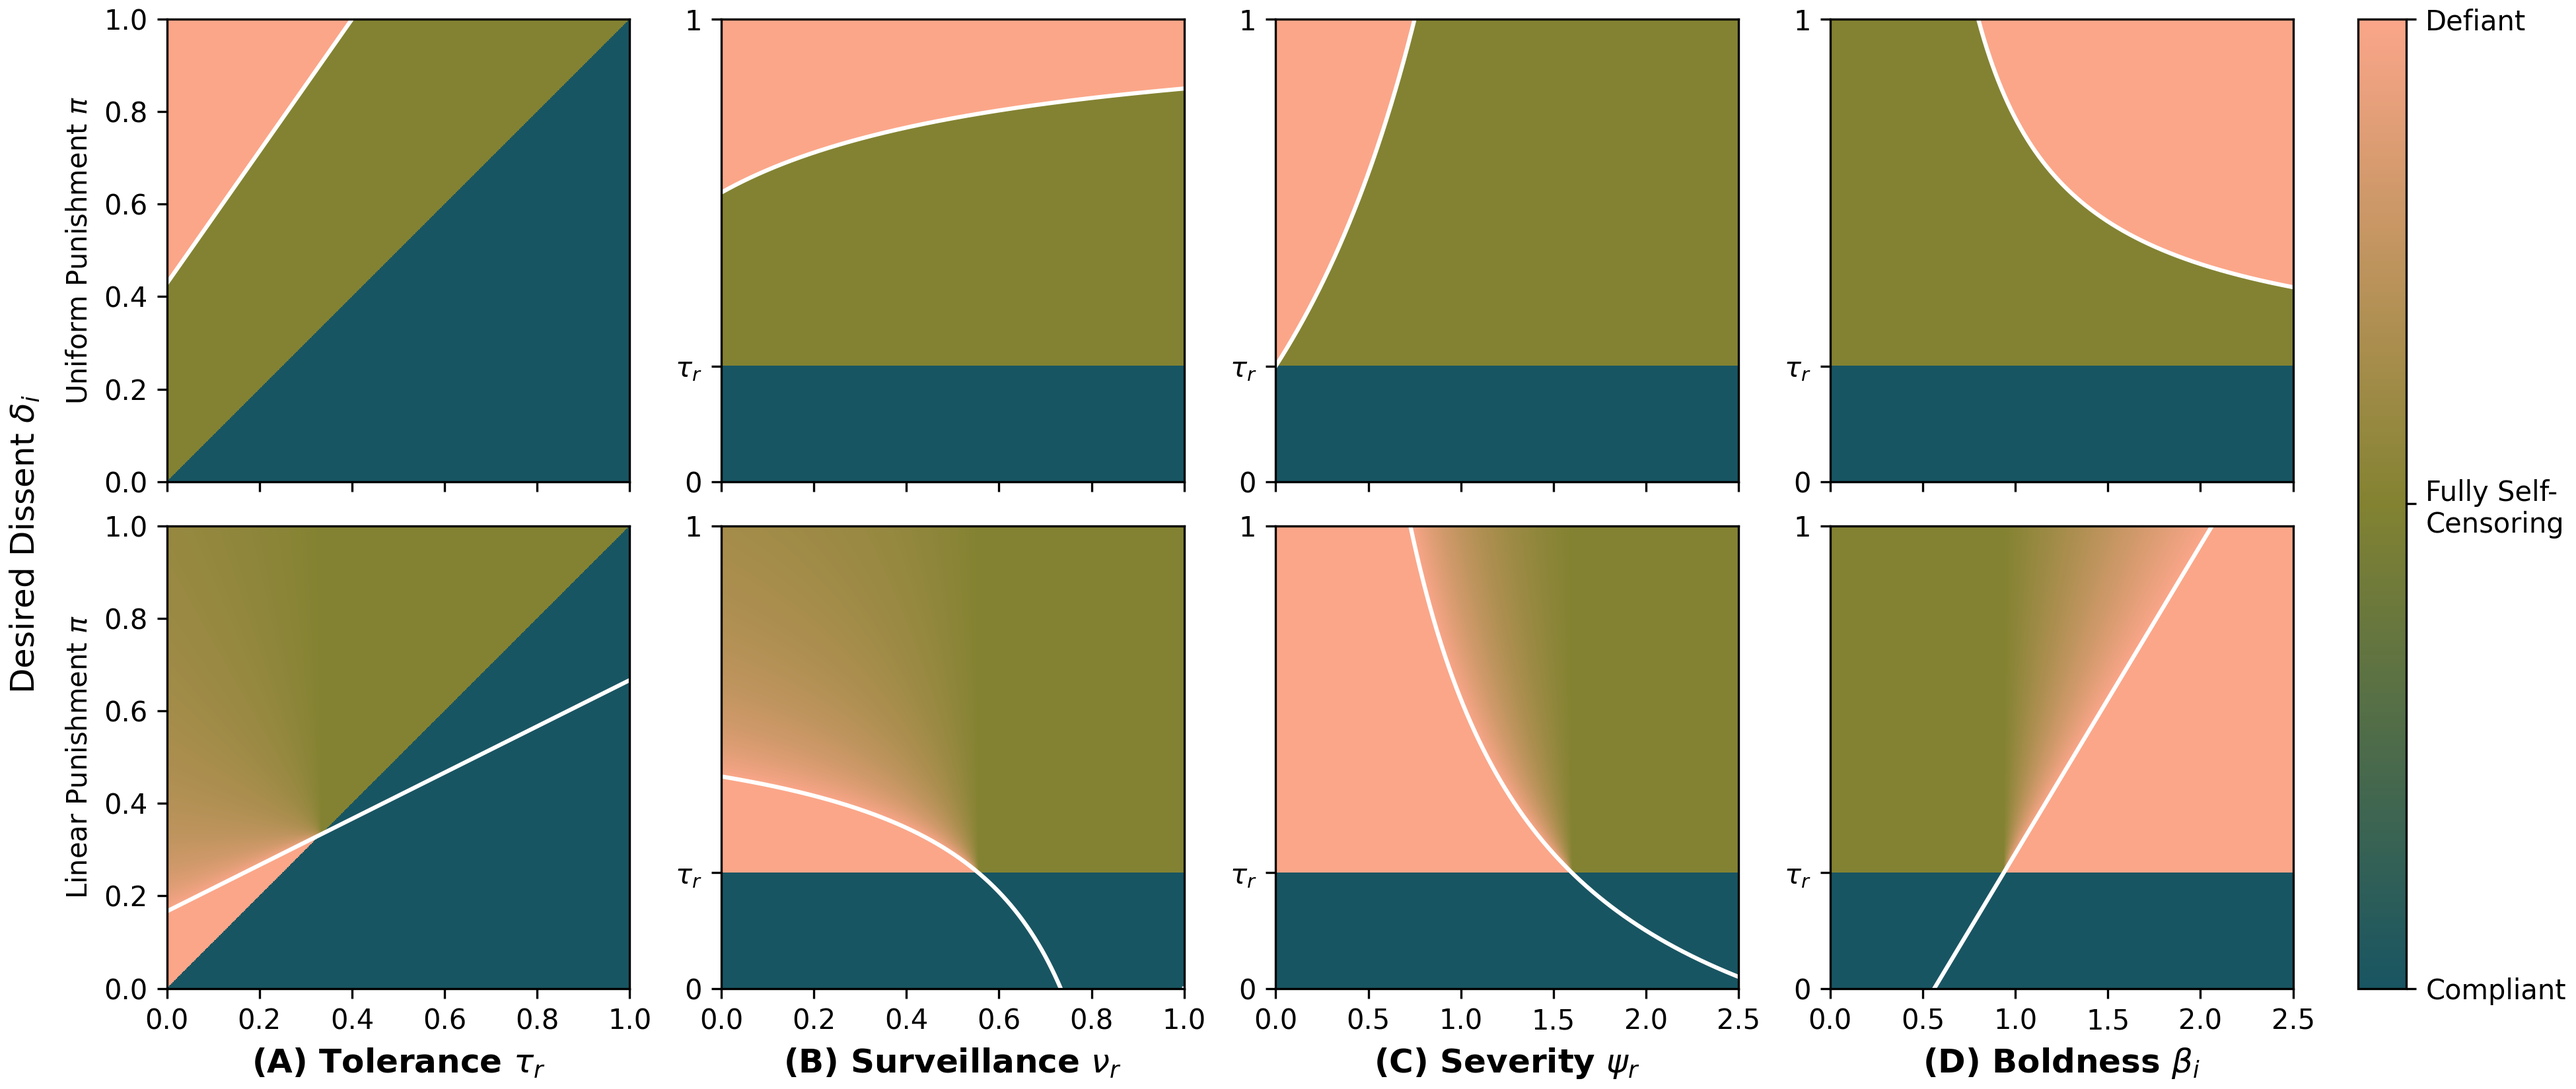
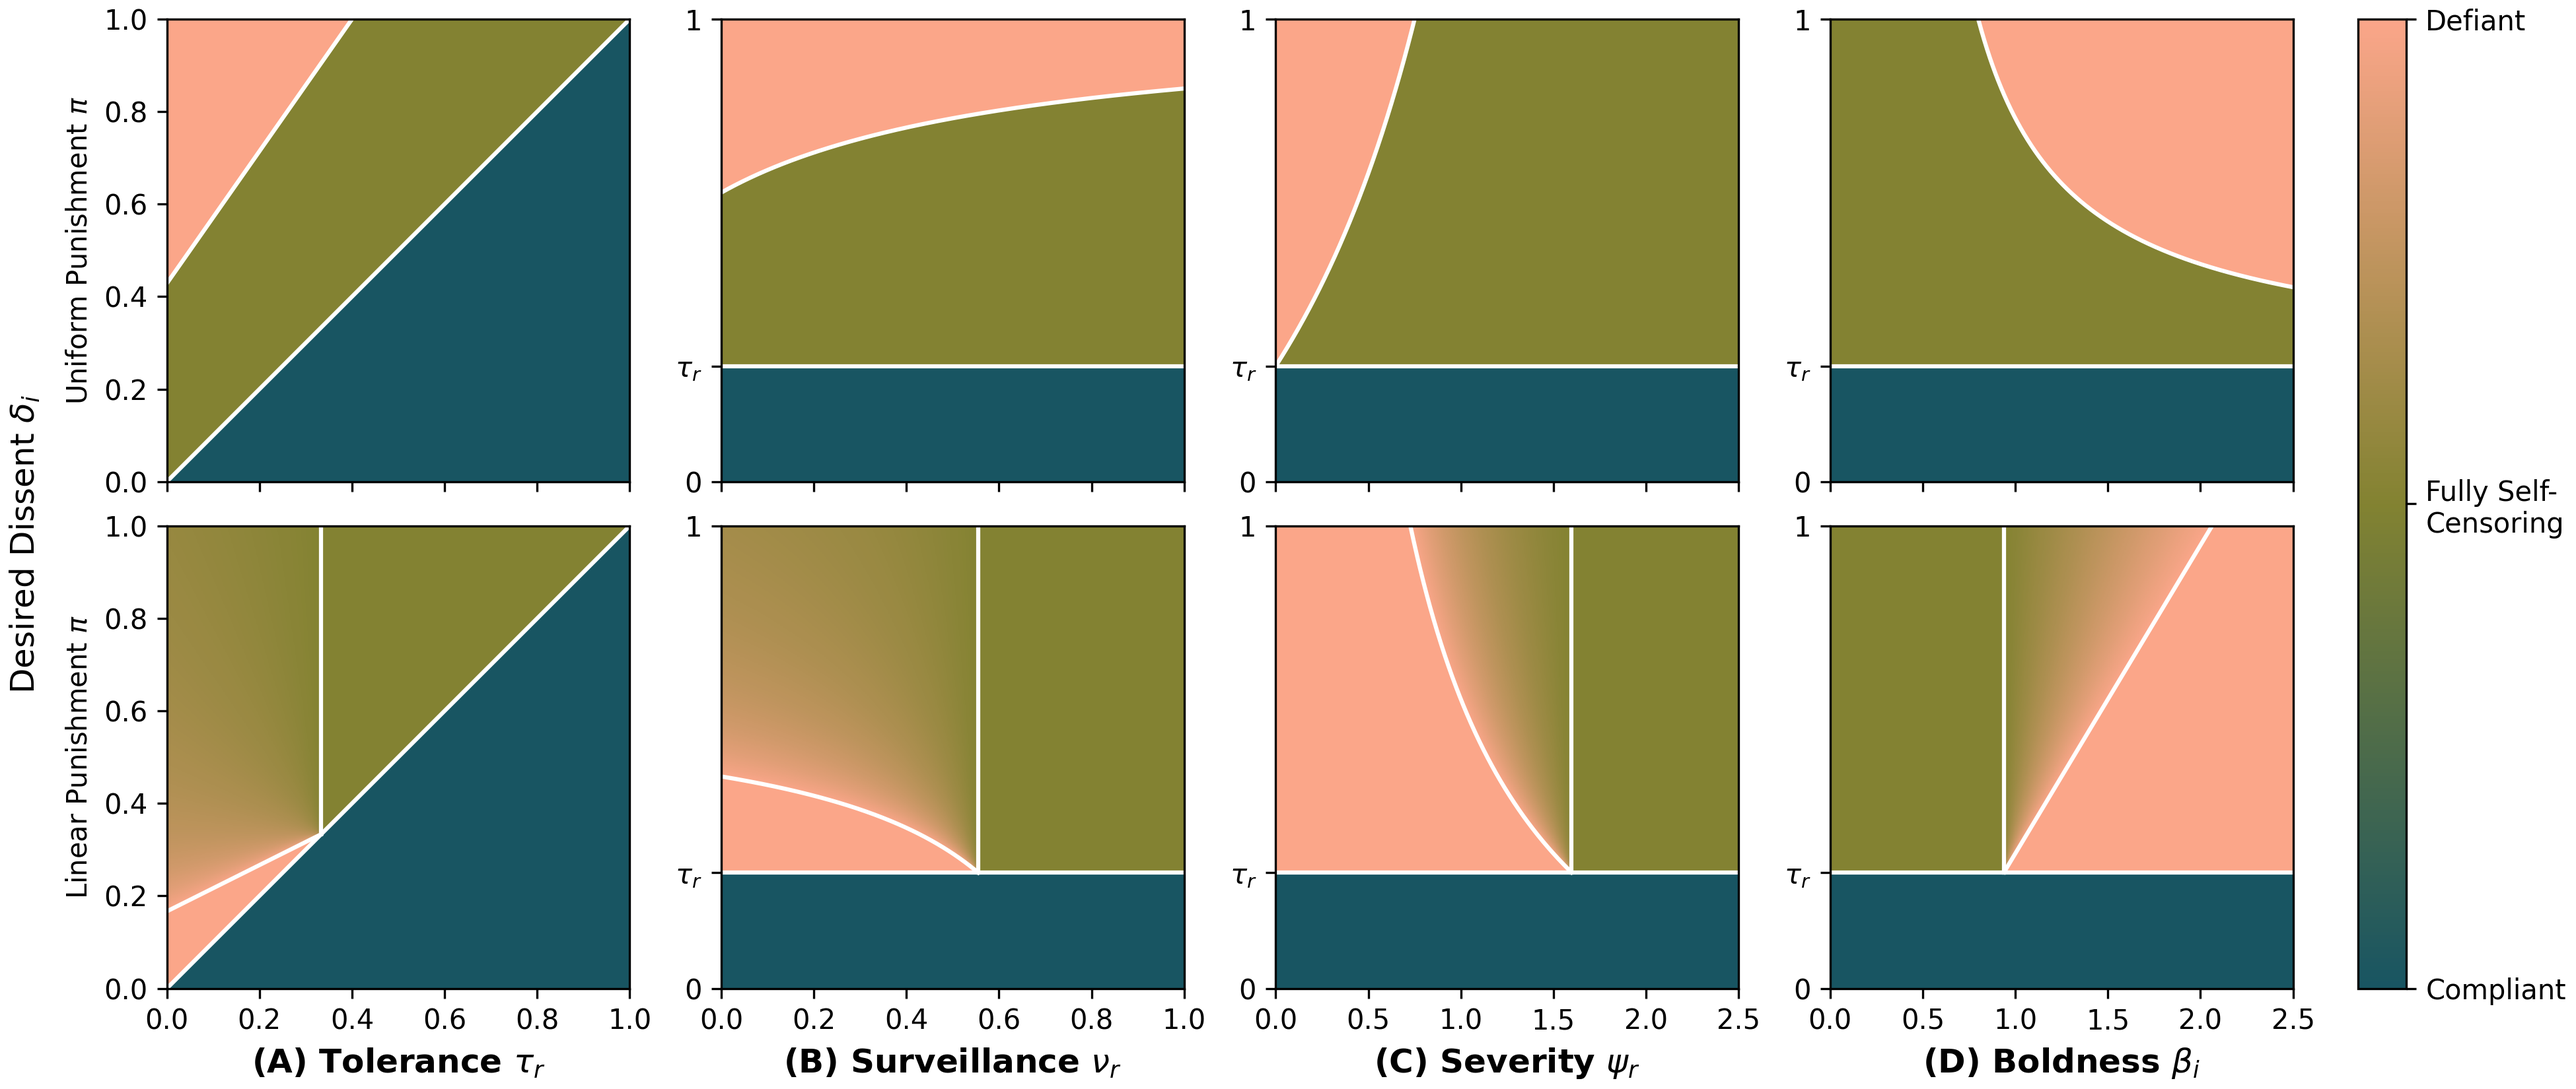
Updated the phase diagram to show phase boundaries

diff --git a/code/phase_diagram.py b/code/phase_diagram.py
@@ -79,17 +79,31 @@ def plot_phase_diagram(ax, xparam, beta, nu, pi, tau, psi):
     cmap = plt.cm.colors.LinearSegmentedColormap.from_list('cphase', colors)
     im = ax.pcolormesh(xvals, deltas, phases, cmap=cmap, shading='auto')
 
-    # Plot duni or dvar, the critical points, over the heatmap.
+    # Plot phase boundaries over the heatmap.
     dfun = duni if pi == 'uniform' else dlin
     if xparam == 'beta':
-        ds = [dfun(xval, nu, tau, psi) for xval in xvals]
+        ds = np.array([dfun(xval, nu, tau, psi) for xval in xvals])
     elif xparam == 'nu':
-        ds = [dfun(beta, xval, tau, psi) for xval in xvals]
+        ds = np.array([dfun(beta, xval, tau, psi) for xval in xvals])
     elif xparam == 'tau':
-        ds = [dfun(beta, nu, xval, psi) for xval in xvals]
+        ds = np.array([dfun(beta, nu, xval, psi) for xval in xvals])
     elif xparam == 'psi':
-        ds = [dfun(beta, nu, tau, xval) for xval in xvals]
-    ax.plot(xvals, ds, color='white')
+        ds = np.array([dfun(beta, nu, tau, xval) for xval in xvals])
+    if xparam == 'tau':
+        xshow = np.ma.masked_where(ds <= xvals, xvals)
+        dshow = np.ma.masked_where(ds <= xvals, ds)
+        ax.plot(xshow, dshow, c='white')
+        ax.plot(xvals, xvals, c='white')
+        if pi == 'linear':
+            ax.plot([xshow.max(), xshow.max()], [dshow.max(), 1], c='white')
+    else:
+        xshow = np.ma.masked_where(ds <= tau, xvals)
+        dshow = np.ma.masked_where(ds <= tau, ds)
+        ax.plot(xshow, dshow, color='white')
+        ax.plot(xvals, np.repeat(tau, len(xvals)), color='white')
+        if pi == 'linear':
+            xbnd = xshow.min() if xparam == 'beta' else xshow.max()
+            ax.plot([xbnd, xbnd], [tau, 1], c='white')
 
     # Set axes information that is common across plots.
     ax.set(xlim=[0, xlim], ylim=[0, 1])
